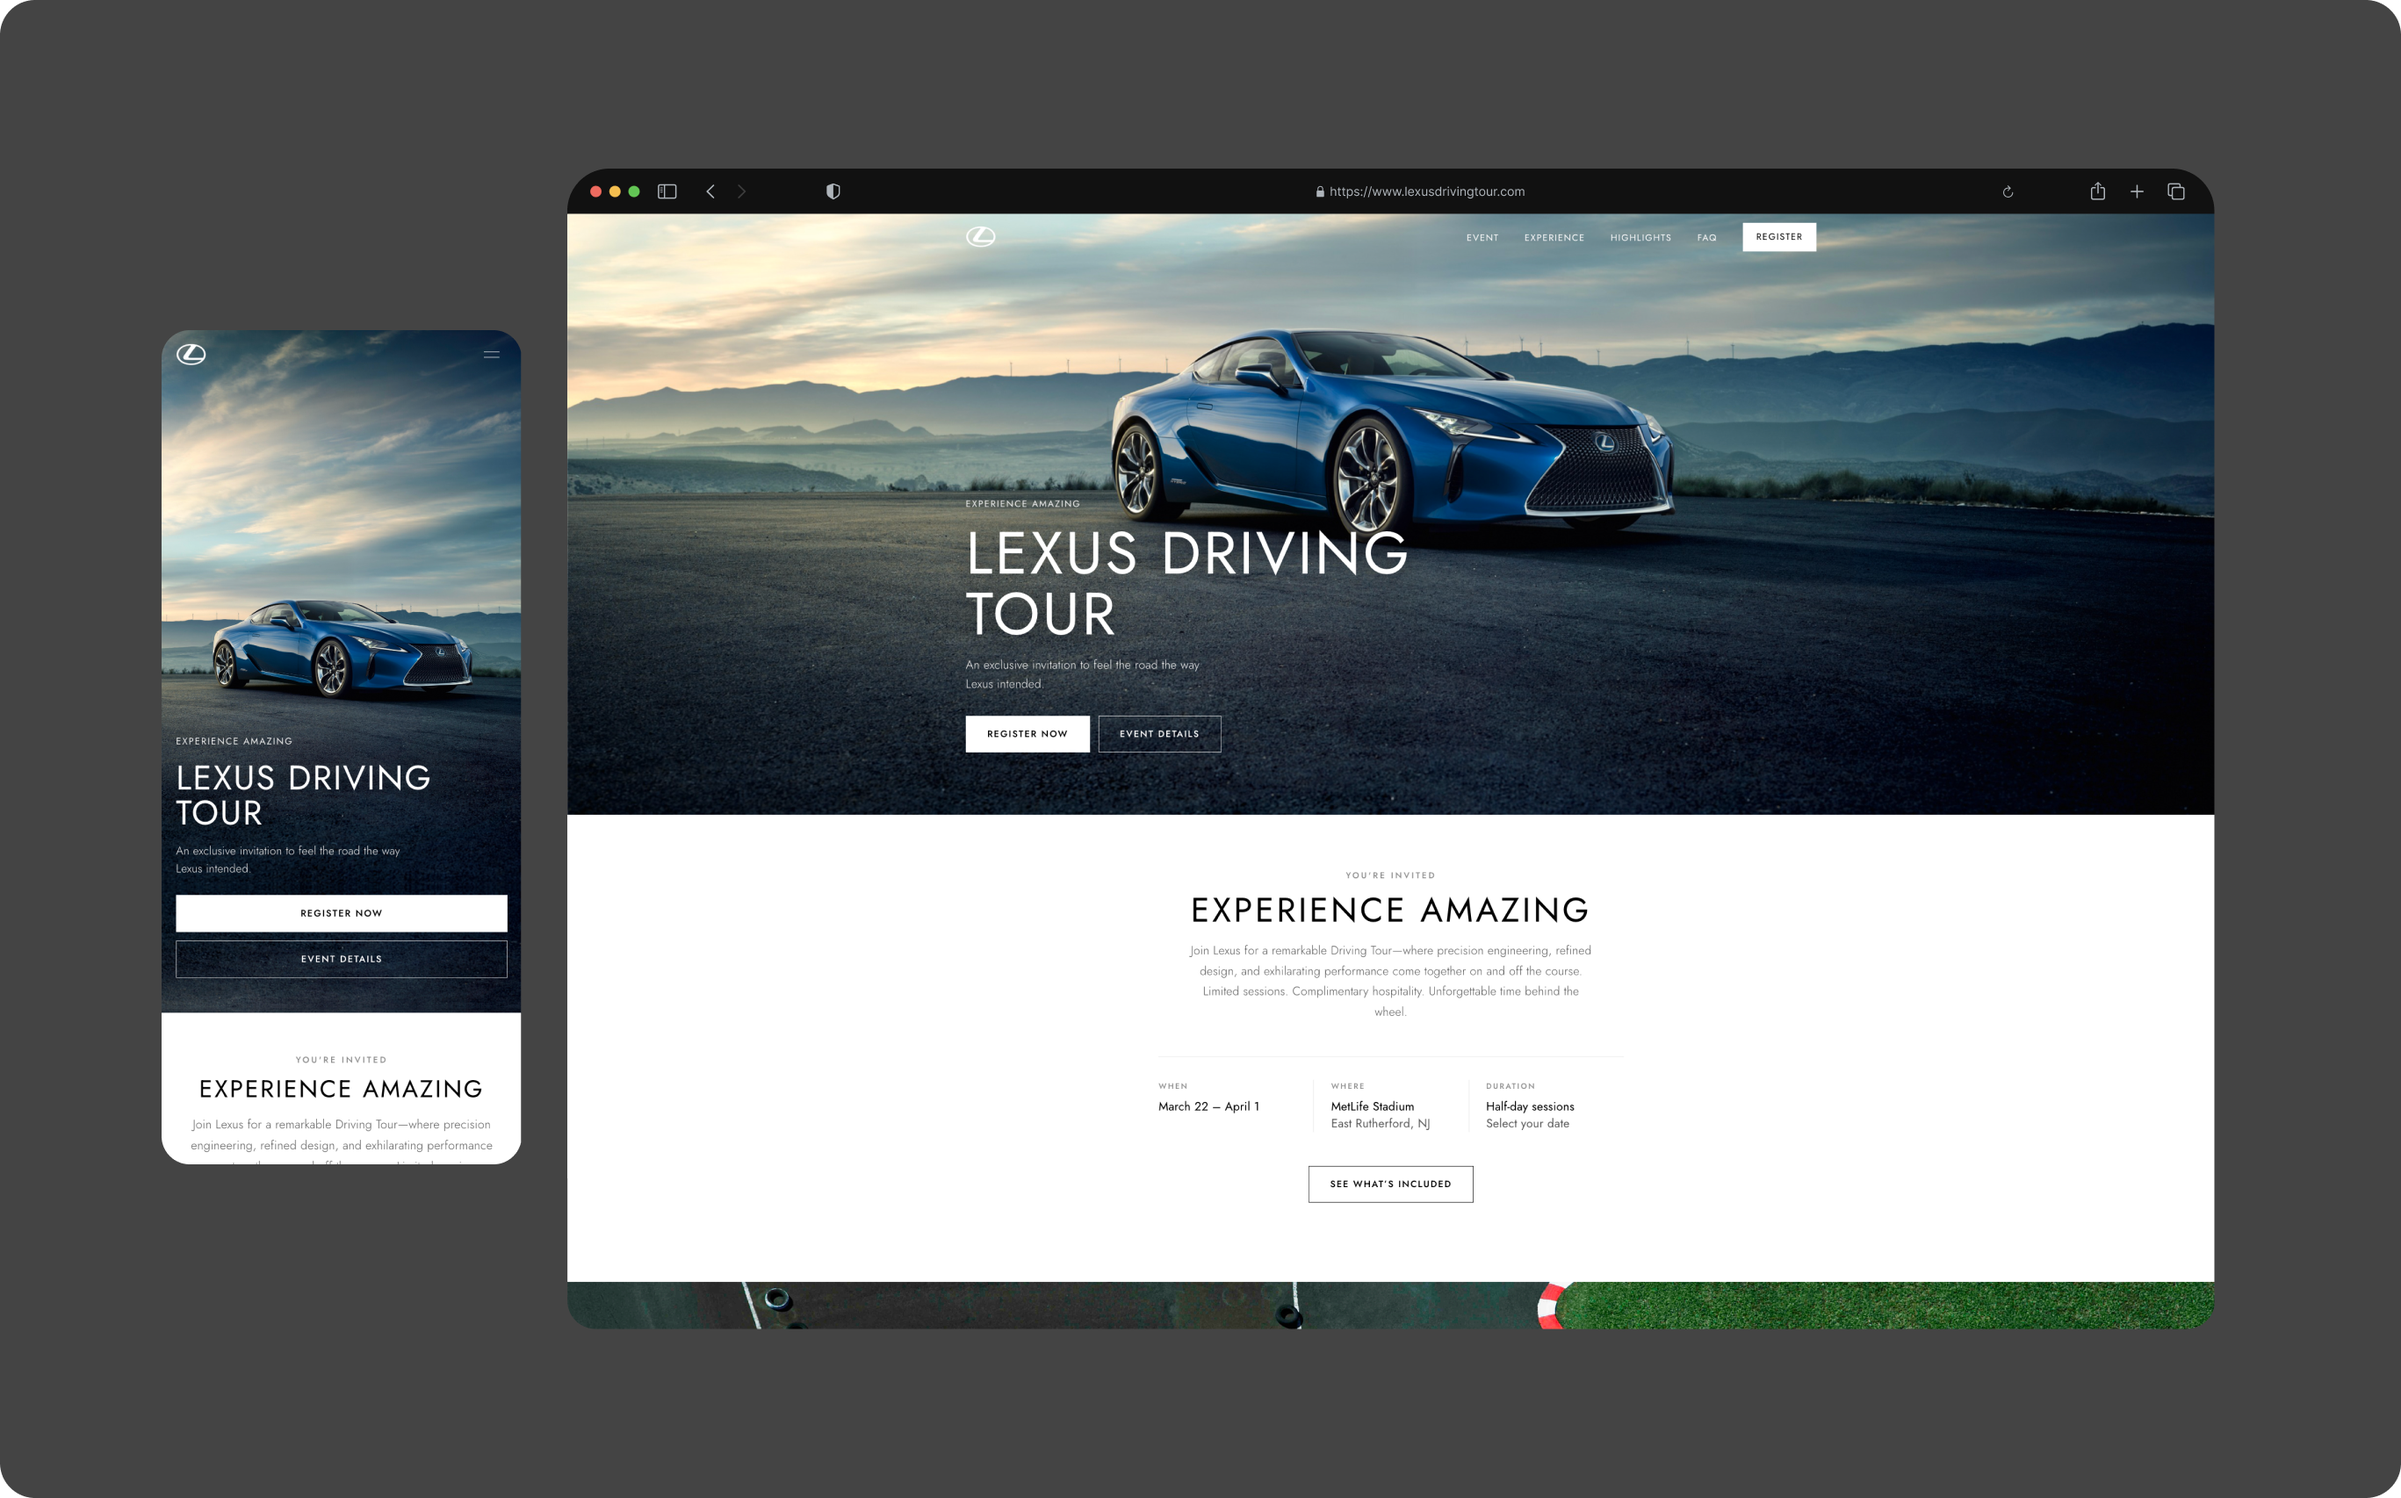
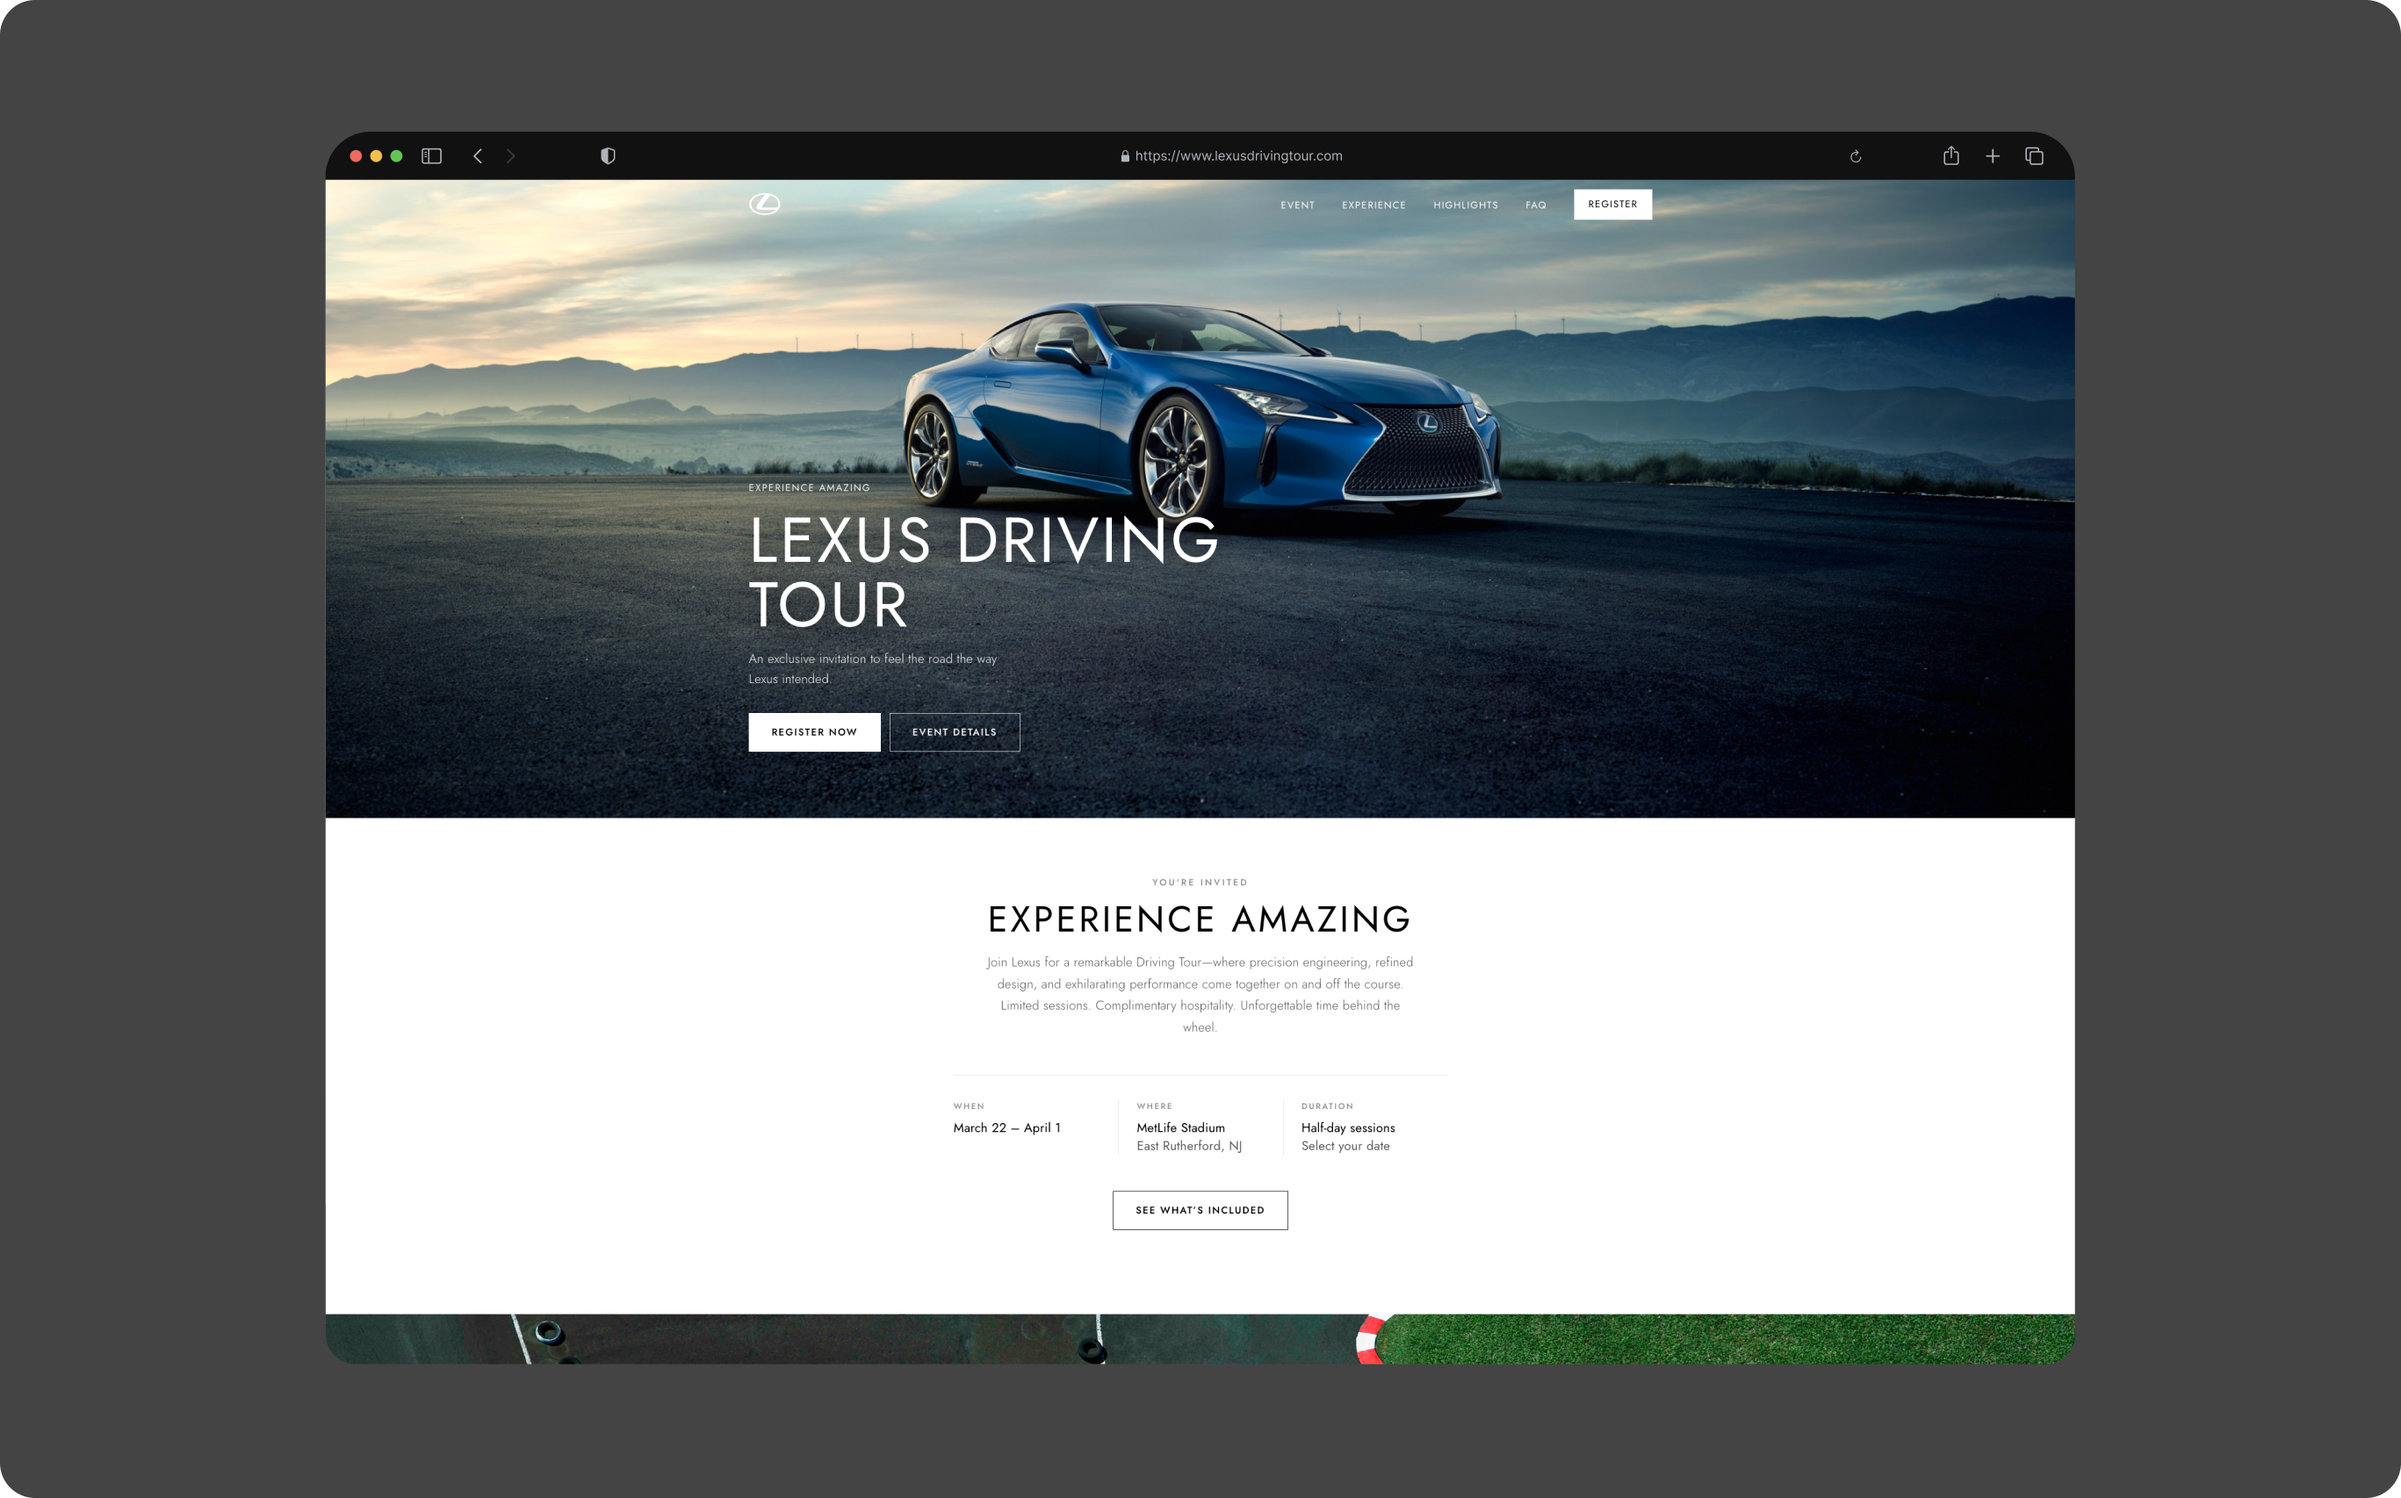
Streamline Lexus Driving Tour case study as media-led presentation.
Drop chapters below the hero, show desktop and mobile composites with homepage stack spacing.

diff --git a/src/app/data/caseStudies/lexusDrivingTourInstrument.ts b/src/app/data/caseStudies/lexusDrivingTourInstrument.ts
@@ -1,6 +1,6 @@
 import type { CaseStudyInstrumentContent } from '../../components/case-study/types';
 import lexusDrivingTourCaseLead from '../../../assets/lexus-driving-tour-case-lead.png';
-import lexusDrivingTourHero from '../../../assets/lexus-driving-tour-hero.png';
+import lexusDrivingTourCaseMobileScreens from '../../../assets/lexus-driving-tour-case-mobile-screens.png';
 
 /** Instrument-style narrative for the Lexus Driving Tour event experience. */
 export const lexusDrivingTourInstrument: CaseStudyInstrumentContent = {
@@ -37,111 +37,20 @@ export const lexusDrivingTourInstrument: CaseStudyInstrumentContent = {
   leadImages: [
     {
       src: lexusDrivingTourCaseLead,
-      alt: 'Lexus Driving Tour site on desktop and mobile: Experience Amazing hero with blue LC sports car, Register Now and Event Details, and You’re Invited section',
+      alt: 'Lexus Driving Tour desktop site: full-width Experience Amazing hero with blue LC sports car, navigation, Register Now and Event Details, and You’re Invited event details',
+      padded: true,
+      background: 'page',
+      objectFit: 'contain',
+      parallaxSpeed: '0',
+    },
+    {
+      src: lexusDrivingTourCaseMobileScreens,
+      alt: 'Lexus Driving Tour mobile screens: hero invitation, You’re Invited details, Experience gallery, and Event Highlights with registration',
       padded: true,
       background: 'page',
       objectFit: 'contain',
       parallaxSpeed: '0',
     },
   ],
-  chapters: [
-    {
-      title: 'Why It Matters',
-      lead: [
-        'Event attendance is won or lost in the first moments of the invitation. Guests need immediate clarity: what the experience is, why it feels exclusive, and what to do next, without wading through dealer form noise.',
-        'The Driving Tour website needed to carry the same craft as the cars themselves: cinematic presence, decisive hierarchy, and a registration path that feels personal rather than procedural.',
-      ],
-      chapterVisual: 'lexus-driving-tour-phone',
-      subsections: [
-        {
-          title: 'Brand as product',
-          paragraphs: [
-            'Lexus already communicates “Experience Amazing” across markets. Our job was to make that line land on a small screen: car photography as the hero stage, type lockup as the brand voice, and two clear actions (Register now and Event details) so guests never had to parse a long page before committing interest.',
-          ],
-        },
-      ],
-    },
-    {
-      title: 'Project complications',
-      lead:
-        'A focused look at the constraints that shaped the experience, and how we kept the invitation feeling exclusive without becoming opaque.',
-      subsections: [],
-      accordion: [
-        {
-          title: 'Invitation, not campaign spam',
-          body: 'The tour is limited-session hospitality, not an open lead form. UI copy, hierarchy, and CTAs had to feel curated for invitees while still converting browsers into registrants for operations.',
-        },
-        {
-          title: 'Hero media under real conditions',
-          body: 'Cinematic vehicle photography carries the emotion of the event. The mobile composition had to protect brand type, logo, and primary CTA across aspect ratios without cropping the story out of the frame.',
-        },
-        {
-          title: 'Dual-audience clarity',
-          body: 'Guests arrive from email, partners, and social. Register now and Event details had to sit as equal peers for people ready to commit and people still evaluating logistics.',
-        },
-        {
-          title: 'Cross-channel continuity',
-          body: 'Landing art, event brief, and on-site hospitality needed a single visual system of color, type, and pacing so the digital experience anticipated the track-day moment rather than competing with it.',
-        },
-        {
-          title: 'Performance on the road',
-          body: 'Many sessions start on mobile, often on imperfect networks. We prioritized a lean first paint of the hero story and deferred secondary content so the invitation stayed fast and legible.',
-        },
-      ],
-    },
-    {
-      title: 'Evidence-led design',
-      lead:
-        'We anchored decisions in how invitation media is actually read: first the vehicle and place, then the brand promise, then a single decisive next step.',
-      subsections: [
-        {
-          title: 'Composition system',
-          paragraphs: [
-            'The hero is a full-bleed visual plane of road, sky, and the LC line, with logo and menu held quiet at the top. The type lockup sits low in the composition so “LEXUS DRIVING TOUR” reads as part of the cinematic stage, not a floating marketing block.',
-            'Register now uses solid high-contrast fill; Event details remains available as a secondary path for guests still building confidence. Below the fold, You’re Invited and Experience Amazing extend the same language without restaging the entire brand.',
-          ],
-        },
-        {
-          title: 'Content architecture',
-          bullets: [
-            'One promise above the fold: experience the tour the way Lexus intended.',
-            'Two actions only: commit (register) or learn (details) before logistics expand.',
-            'Hospitality language under the fold for session scarcity, complimentary care, and what guests should expect off the course.',
-          ],
-        },
-      ],
-    },
-    {
-      title: 'The Result',
-      subsections: [
-        {
-          title: 'An invitation that feels like the event',
-          paragraphs: [
-            'The finished experience treats the Driving Tour as a brand product: immersive first screen, precise CTAs, and a calm scroll into hospitality detail. Guests can move from desire to registration without friction that would break the exclusive tone.',
-            'For stakeholders, the site became a reusable shell for future tour markets with the same drama and structure, and swappable photography and session details, while keeping registration operations straightforward.',
-          ],
-        },
-      ],
-      metrics: [
-        { value: 'Live', label: 'Brand invitation moments' },
-        { value: '2', label: 'Primary guest actions' },
-        { value: 'Mobile-first', label: 'Experience surface' },
-      ],
-      metricsVariant: 'highlight',
-      metricsPosition: 'afterContent',
-      metricsEyebrow: 'Experience outcomes',
-    },
-  ],
-  closing: {
-    paragraphs: [
-      'Lexus Driving Tour proves that high-touch automotive events need digital spaces with the same restraint as the showroom: one strong image, one clear promise, and a path that respects the guest’s time.',
-    ],
-    image: {
-      src: lexusDrivingTourHero,
-      alt: 'Lexus Driving Tour: Experience Amazing invitation composition',
-      objectFit: 'contain',
-      background: 'page',
-      padded: true,
-    },
-  },
+  chapters: [],
 };

diff --git a/src/app/components/case-study/CaseStudyInstrumentPage.tsx b/src/app/components/case-study/CaseStudyInstrumentPage.tsx
@@ -565,6 +565,11 @@ export function CaseStudyInstrumentPage({
   const relatedProjects = projects
     .filter((p) => p.caseStudyRoute !== currentRoute && !p.comingSoon)
     .slice(0, 3);
+  const leadImages = instrument.leadImages?.length
+    ? instrument.leadImages
+    : instrument.leadImage
+      ? [instrument.leadImage]
+      : [];
 
   return (
     <article
@@ -656,14 +661,19 @@ export function CaseStudyInstrumentPage({
         ) : null}
       </header>
 
-      {(instrument.leadImages?.length
-        ? instrument.leadImages
-        : instrument.leadImage
-          ? [instrument.leadImage]
-          : []
-      ).map((image, i) => (
-        <InstrumentFigure key={`lead-hero-${i}`} image={image} variant="hero" />
-      ))}
+      {leadImages.length > 0 ? (
+        <div
+          className={
+            leadImages.length > 1
+              ? 'case-study-instrument__lead-image-stack'
+              : undefined
+          }
+        >
+          {leadImages.map((image, i) => (
+            <InstrumentFigure key={`lead-hero-${i}`} image={image} variant="hero" />
+          ))}
+        </div>
+      ) : null}
 
       {instrument.chapters
         .filter((chapter) => chapter.beforeLeadBento)

diff --git a/src/styles/index.css b/src/styles/index.css
@@ -3852,6 +3852,19 @@ html.page-transition-active body {
   box-sizing: border-box;
 }
 
+/* Match homepage image-stack gap (1.5rem) between consecutive lead media. */
+.case-study-instrument__lead-image-stack {
+  display: flex;
+  flex-direction: column;
+  gap: 1.5rem;
+  margin-block: clamp(2.5rem, 7vw, 4.5rem);
+}
+
+.case-study-instrument__lead-image-stack .case-study-instrument__figure--padded,
+.case-study-instrument__lead-image-stack .case-study-instrument__figure--bleed {
+  margin-block: 0;
+}
+
 .case-study-instrument__figure--padded .case-study-instrument__figure-media {
   /* Screenshots already include rounded chrome; extra radius+clip crops the top bar. */
   border-radius: 0;
